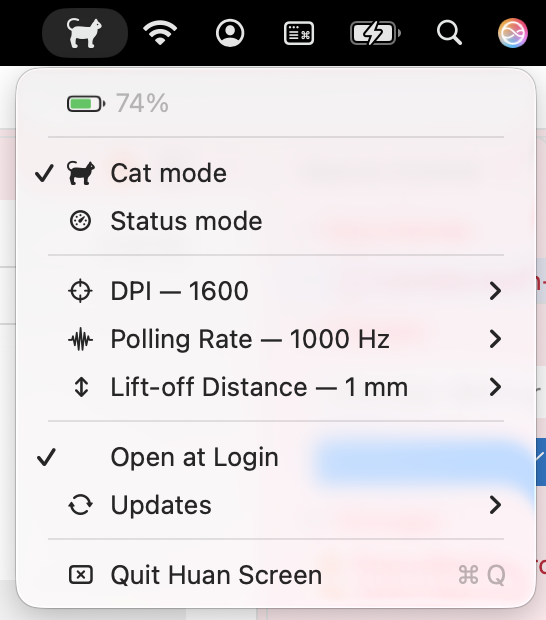
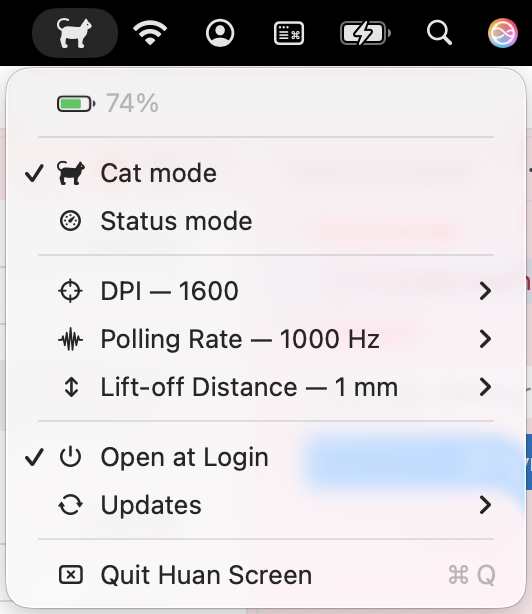
💄 feat: icône devant Open at Login pour aligner le menu

diff --git a/Sources/HuanScreen/StatusBarController.swift b/Sources/HuanScreen/StatusBarController.swift
@@ -123,6 +123,7 @@ final class StatusBarController: NSObject, NSMenuDelegate {
 
         let login = NSMenuItem(title: localized("Open at Login"), action: #selector(toggleOpenAtLogin), keyEquivalent: "")
         login.target = self
+        login.image = symbolImage("power", label: localized("Open at Login"))
         login.state = SMAppService.mainApp.status == .enabled ? .on : .off
         menu.addItem(login)
 

diff --git a/README.md b/README.md
@@ -74,7 +74,7 @@ GitHub Actions then builds the app, checks the tag matches the version, and publ
 
 Click the icon to open the menu:
 
-<img src="docs/menu.png" alt="Huan Screen menu" width="273">
+<img src="docs/menu.png" alt="Huan Screen menu" width="266">
 
 The battery turns red below 20% and shows a bolt while charging. A notification warns you when the battery drops to 20%, then 10%; it is re-armed once the mouse charges or goes back above 25%. The menu bar always shows the cat icon, dimmed when the receiver is not plugged in; hover it to see the current mode.
 
